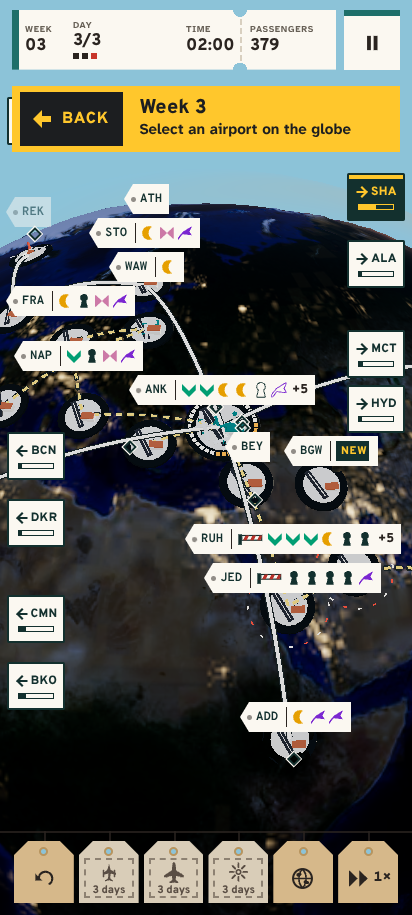
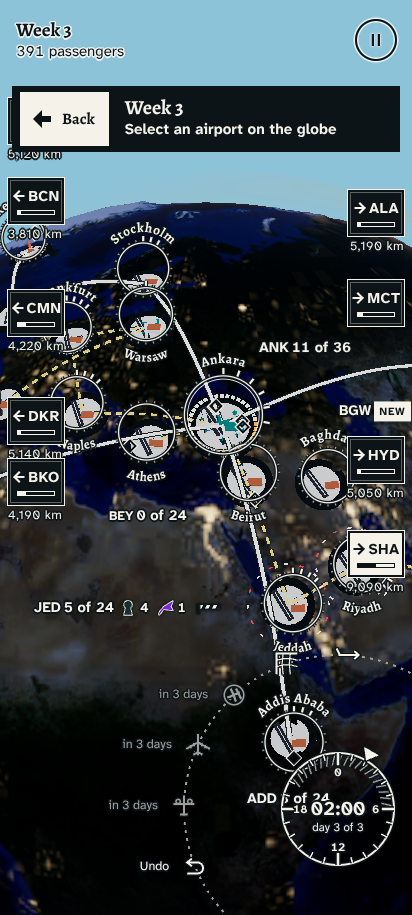
Pick gesture: treat the D-279 bottom-edge pick sign as an obstacle, not a top bound
The DEV pick planner (session.pickGesture, used by window.aw.gesture('pick'))
excluded every airport above the pick sign's bottom edge plus 24 px, assuming the
sign stands above the globe. Since D-279 the sign on a low landscape phone stands
on the bottom edge left of the dock arc, so the bound fell below the screen and no
target was left: test:e2e:edge-chip-airports failed at 915x412 with "No gesture
available for pick" although many selectable airports were visible and tappable.
A sign in the lower half now blocks only the strip below its top edge (24 px
margin) as far right as it reaches. The test keeps its strict checks: the target
must be uncovered (elementFromPoint is the globe) and the tap must complete the
pick. Shots docs/shots/n10v refreshed.

diff --git a/src/game/session.ts b/src/game/session.ts
@@ -685,14 +685,23 @@ export function startSession(host: HTMLElement, world: World, initial: EndlessRu
       return null;
     },
     pickGesture() {
-      // Clear of the boarding pass, the yellow sign above the globe, the dock and the screen edge.
+      // Clear of the boarding pass, the pick sign, the dock and the screen edge. [night-32a] The sign stands above
+      // the globe, except on a low landscape phone where D-279 puts it on the bottom edge left of the dock arc: there
+      // it blocks the strip below its top edge as far right as it reaches, not everything above its bottom edge
+      // (that left no target at all on 915×412 and failed test:e2e:edge-chip-airports).
       const w = world.canvas.clientWidth;
       const h = world.canvas.clientHeight;
-      const sign = upgradeHost.querySelector('.airway-upgrade-sign')?.getBoundingClientRect();
+      const box = upgradeHost.querySelector('.airway-upgrade-sign')?.getBoundingClientRect();
       const canvas = world.canvas.getBoundingClientRect();
-      const top = Math.max(100, (sign ? sign.bottom - canvas.top : 0) + 24);
+      const sign = box && box.width > 0 && box.height > 0
+        ? { top: box.top - canvas.top, bottom: box.bottom - canvas.top, left: box.left - canvas.left, right: box.right - canvas.left }
+        : null;
+      const onBottom = !!sign && sign.top + sign.bottom > h; // its middle in the lower half
+      const top = Math.max(100, (sign && !onBottom ? sign.bottom : 0) + 24);
+      const underSign = (x: number, y: number) => !!sign && onBottom &&
+        y > sign.top - 24 && x > sign.left - 24 && x < sign.right + 24;
       const target = projectedCities().find((c) => hubSelection.includes(c.id) && c.visible &&
-        c.x > 40 && c.x < w - 120 && c.y > top && c.y < h - 120);
+        c.x > 40 && c.x < w - 120 && c.y > top && c.y < h - 120 && !underSign(c.x, c.y));
       return target ? { from: { x: target.x, y: target.y }, to: { x: target.x, y: target.y } } : null;
     },
     planeGesture() {
